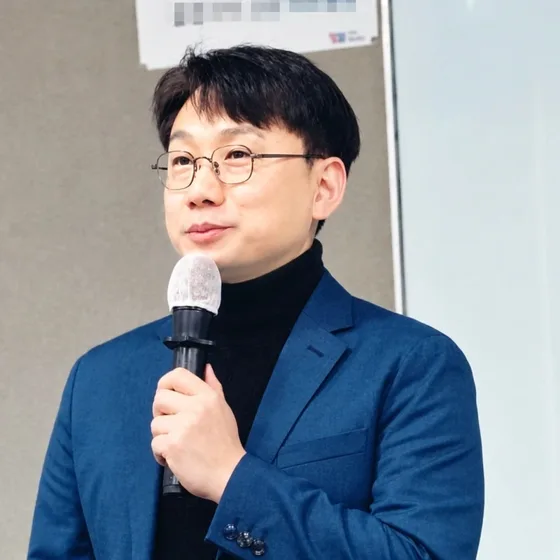
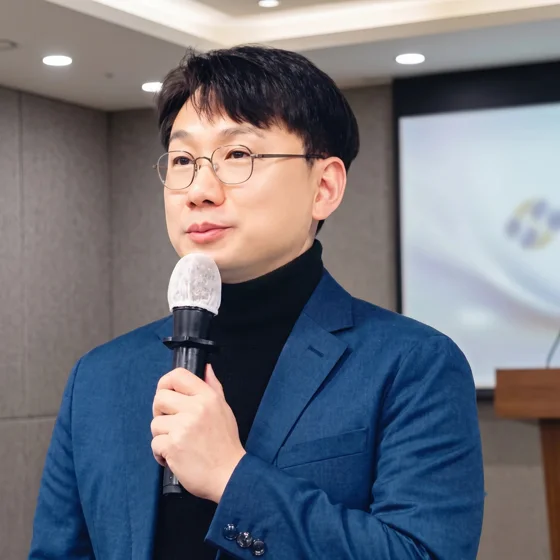
홈 만든 사람: 새 프로필 사진(원장님 보정본, 제미나이 표시 지움)

diff --git a/home/index.html b/home/index.html
@@ -172,7 +172,7 @@
 
 <section class="sec" id="author"><div class="wrap">
   <div class="au rev">
-    <img class="ph" src="/assets/brand/author.webp" alt="저자 백성민 원장" loading="lazy" width="280" height="280">
+    <img class="ph" src="/assets/brand/author.webp?v=2" alt="저자 백성민 원장" loading="lazy" width="280" height="280">
     <div class="tx"><span class="k">만든 사람</span><h2>백성민 원장</h2>
       <ul><li>28년차 현직 영어학원 원장</li><li>저절로 시리즈 교재 14권 저자</li><li>원장 세미나 누적 1,000명 이상</li></ul>
       <a class="btn line sm" href="https://www.youtube.com/channel/UCoLiIPQe_U01fMFa0X1F2ng/playlists" target="_blank" rel="noopener">유튜브 저자 직강 ↗</a></div>
